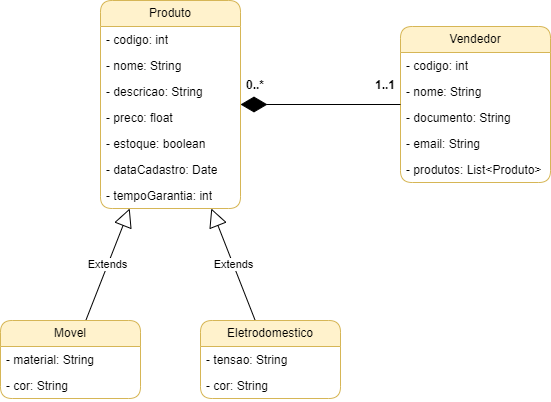
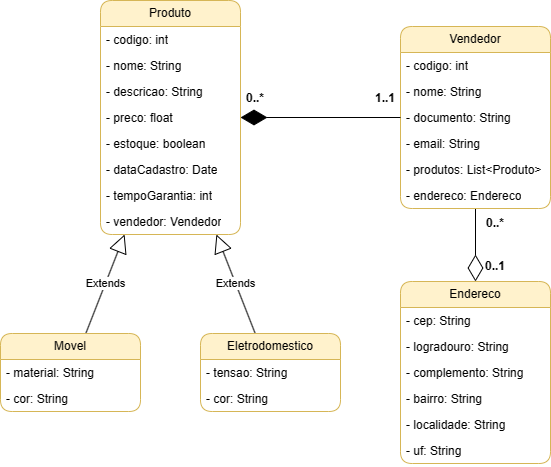
Entrega 4

diff --git a/ecommerce/src/main/java/controller/AppController.java b/ecommerce/src/main/java/controller/AppController.java
@@ -1,9 +1,6 @@
 package controller;
 
-import model.service.MovelService;
-import model.service.EletrodomesticoService;
-import model.service.ProdutoService;
-import model.service.VendedorService;
+import model.service.*;
 import org.springframework.beans.factory.annotation.Autowired;
 import org.springframework.stereotype.Controller;
 import org.springframework.ui.Model;
@@ -23,8 +20,12 @@ public class AppController {
     @Autowired
     private EletrodomesticoService eletrodomesticoService;
 
+    @Autowired
+    private InformacaoService informacaoService;
+
     @GetMapping(value = "/")
     public String showHome(Model model) {
+        model.addAttribute("informacoes", informacaoService.listar());
         model.addAttribute("qtdeVendedor", vendedorService.obterQtde());
         model.addAttribute("qtdeProduto", produtoService.obterQtde());
         model.addAttribute("qtdeMovel", movelService.obterQtde());

diff --git a/ecommerce/src/main/java/model/domain/Informacao.java b/ecommerce/src/main/java/model/domain/Informacao.java
@@ -1,0 +1,43 @@
+package model.domain;
+
+import javax.persistence.*;
+
+@Entity
+public class Informacao {
+    @Id
+    @GeneratedValue(strategy = GenerationType.IDENTITY)
+    private Integer id;
+
+    private String campo;
+
+    private String descricao;
+
+    @Override
+    public String toString() {
+        return String.format("id (%d) - campo (%s) - descrição (%s)", id, campo, descricao);
+    }
+
+    public Integer getId() {
+        return id;
+    }
+
+    public void setId(Integer id) {
+        this.id = id;
+    }
+
+    public String getCampo() {
+        return campo;
+    }
+
+    public void setCampo(String campo) {
+        this.campo = campo;
+    }
+
+    public String getDescricao() {
+        return descricao;
+    }
+
+    public void setDescricao(String descricao) {
+        this.descricao = descricao;
+    }
+}

diff --git a/ecommerce/src/main/java/model/service/VendedorService.java b/ecommerce/src/main/java/model/service/VendedorService.java
@@ -6,6 +6,7 @@ import model.domain.Endereco;
 import clients.IEnderecoClient;
 import java.util.Collection;
 import org.springframework.beans.factory.annotation.Autowired;
+import org.springframework.data.domain.Sort;
 import org.springframework.stereotype.Service;
 
 @Service
@@ -23,7 +24,7 @@ public class VendedorService {
     }
 
     public Collection<Vendedor> listar(){
-        return (Collection<Vendedor>) vendedorRepository.findAll();
+        return (Collection<Vendedor>) vendedorRepository.findAll(Sort.by(Sort.Direction.ASC, "nome"));
     }
 
     public void excluir(Integer id) {
@@ -32,5 +33,9 @@ public class VendedorService {
 
     public long obterQtde() {
         return vendedorRepository.count();
+    }
+
+    public Vendedor pesquisar(String cpf) {
+        return vendedorRepository.findByCpf(cpf);
     }
 }

diff --git a/ecommerce/src/main/java/controller/VendedorController.java b/ecommerce/src/main/java/controller/VendedorController.java
@@ -1,6 +1,7 @@
 package controller;
 
 import model.service.VendedorService;
+import model.domain.Vendedor;
 import org.springframework.beans.factory.annotation.Autowired;
 import org.springframework.stereotype.Controller;
 import org.springframework.ui.Model;
@@ -28,5 +29,17 @@ public class VendedorController {
         model.addAttribute("listagem", vendedorService.listar());
 
         return appController.showHome(model);
+    }
+
+    @GetMapping(value = "/vendedor/pesquisar")
+    public String pesquisar(Model model, String campoBusca) {
+        Vendedor vendedor = vendedorService.pesquisar(campoBusca);
+
+        if(vendedor != null) {
+            model.addAttribute("objeto", vendedor);
+            return appController.showHome(model);
+        }
+
+        return "redirect:/vendedor/lista";
     }
 }

diff --git a/ecommerce/src/main/java/controller/InformacaoController.java b/ecommerce/src/main/java/controller/InformacaoController.java
@@ -1,0 +1,21 @@
+package controller;
+
+import model.domain.Informacao;
+import model.service.InformacaoService;
+import org.springframework.beans.factory.annotation.Autowired;
+import org.springframework.stereotype.Controller;
+import org.springframework.web.bind.annotation.PostMapping;
+
+@Controller
+public class InformacaoController {
+    @Autowired
+    private InformacaoService informacaoService;
+
+    @PostMapping(value = "/informacao/incluir")
+    public String incluir(Informacao informacao) {
+        Informacao result = informacaoService.incluir(informacao);
+        System.out.println("Result: " + result);
+
+        return "redirect:/";
+    }
+}

diff --git a/ecommerce/src/main/java/clients/IInformacaoClient.java b/ecommerce/src/main/java/clients/IInformacaoClient.java
@@ -1,0 +1,16 @@
+package clients;
+
+import model.domain.Informacao;
+import org.springframework.cloud.openfeign.FeignClient;
+import org.springframework.web.bind.annotation.GetMapping;
+import org.springframework.web.bind.annotation.PostMapping;
+import java.util.List;
+
+@FeignClient(url = "http://localhost:8081/api/informacao", name = "informacaoClient")
+public interface IInformacaoClient {
+    @GetMapping(value = "/lista")
+    public List<Informacao> listar();
+
+    @PostMapping(value = "/incluir")
+    public Informacao incluir(Informacao informacao);
+}

diff --git a/ecommerce/src/main/java/model/service/InformacaoService.java b/ecommerce/src/main/java/model/service/InformacaoService.java
@@ -1,0 +1,21 @@
+package model.service;
+
+import clients.IInformacaoClient;
+import model.domain.Informacao;
+import org.springframework.beans.factory.annotation.Autowired;
+import org.springframework.stereotype.Service;
+import java.util.List;
+
+@Service
+public class InformacaoService {
+    @Autowired
+    private IInformacaoClient informacaoClient;
+
+    public List<Informacao> listar(){
+        return informacaoClient.listar();
+    }
+
+    public Informacao incluir(Informacao informacao) {
+        return informacaoClient.incluir(informacao);
+    }
+}

diff --git a/ecommerce/src/main/java/model/repository/VendedorRepository.java b/ecommerce/src/main/java/model/repository/VendedorRepository.java
@@ -1,8 +1,14 @@
 package model.repository;
 
 import model.domain.Vendedor;
+import org.springframework.data.domain.Sort;
 import org.springframework.data.repository.CrudRepository;
 import org.springframework.stereotype.Repository;
+import java.util.List;
 
 @Repository
-public interface VendedorRepository extends CrudRepository<Vendedor, Integer> { }
+public interface VendedorRepository extends CrudRepository<Vendedor, Integer> {
+    Vendedor findByCpf(String cpf);
+
+    List<Vendedor> findAll(Sort sort);
+}

diff --git a/ecommerce/src/main/java/model/domain/Vendedor.java b/ecommerce/src/main/java/model/domain/Vendedor.java
@@ -32,7 +32,7 @@ public class Vendedor {
     @JoinColumn(name = "EnderecoId")
     private Endereco endereco;
 
-    @OneToMany(fetch = FetchType.EAGER)
+    @OneToMany(fetch = FetchType.EAGER, cascade = CascadeType.REMOVE, orphanRemoval = true)
     @JoinColumn(name = "VendedorId")
     private List<Produto> produtos;
 

diff --git a/ecommerce/src/main/java/model/domain/Endereco.java b/ecommerce/src/main/java/model/domain/Endereco.java
@@ -1,10 +1,6 @@
 package model.domain;
 
-import javax.persistence.Entity;
-import javax.persistence.GeneratedValue;
-import javax.persistence.GenerationType;
-import javax.persistence.Id;
-import javax.persistence.Table;
+import javax.persistence.*;
 
 @Entity
 @Table(name = "Enderecos")

diff --git a/README.md b/README.md
@@ -11,4 +11,7 @@ Desenvolvimento de uma aplicação WEB API escrita em linguagem de programação
 
 ### Diagrama de classes:
 ![<alt-text>](<arquivos/Arquitetura java - diagrama de classes.png>)
+
+### Acesso ao projeto #2
+<a href="https://github.com/vctr-moraes/projeto-da-disciplina-arquitetura-java-api" target="_blank">Projeto #2</a>
 --
